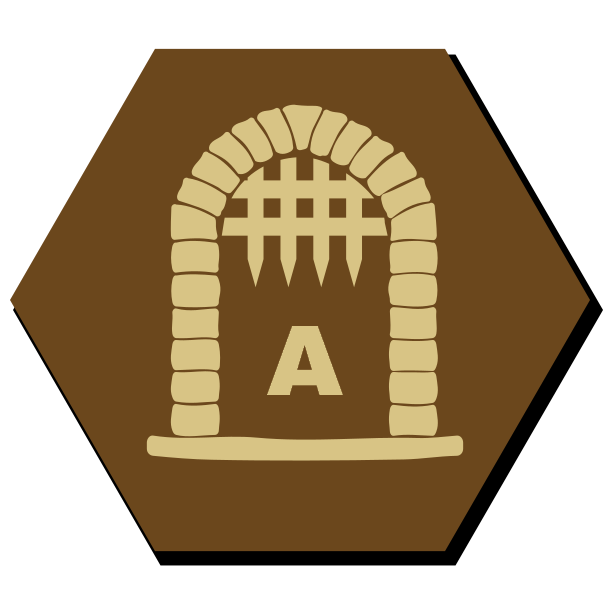
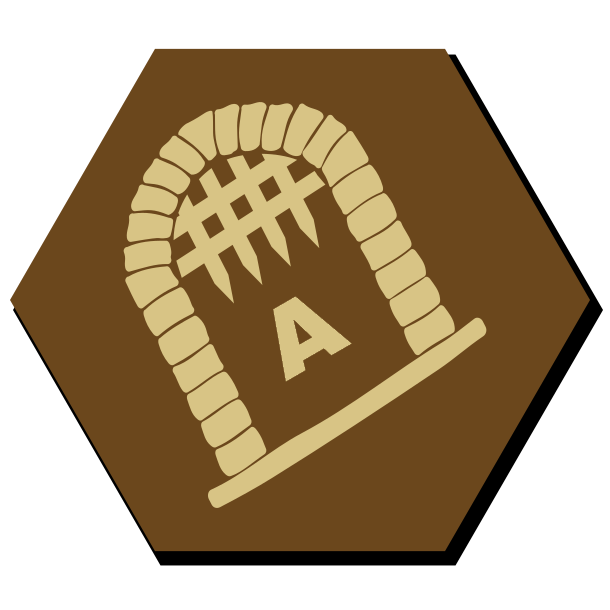
fix lockdown rotational madness

Changed region(s): [[0.1869, 0.1557, 0.8098, 0.841]]

diff --git a/src/chits.rb b/src/chits.rb
@@ -103,7 +103,8 @@ Squib::Deck.new(width: 600, height: 600, cards: files.size) do
   background color: $BG_COLOR # dark brown
   svg data: replace_fill_with_fg(files), width: width, height: width
   text str: letters, font: 'Archivo Black, Serif 24',
-       x: 0, y: 285, width: width, align: :center, color: $FG_COLOR
+       x: 0, y: 420, width: width, angle: -Math::PI / 6,
+       align: :center, color: $FG_COLOR
   save_png prefix: 'hex_lockdown_', count_format: letters
 end
 #For rules
@@ -114,7 +115,8 @@ Squib::Deck.new(width: 610, height: 610, cards: files.size) do
           fill_color: $BG_COLOR, stroke_width: 0
   svg data: replace_fill_with_fg(files), width: width, height: width
   text str: letters, font: 'Archivo Black, Serif 24',
-       x: 0, y: 285, width: width, align: :center, color: $FG_COLOR
+       x: 0, y: 420, angle: -Math::PI / 6,
+       width: width, align: :center, color: $FG_COLOR
 
   save_png dir: 'rules/', prefix: 'fig_hex_lockdown_', count_format: letters,
            range: 0
